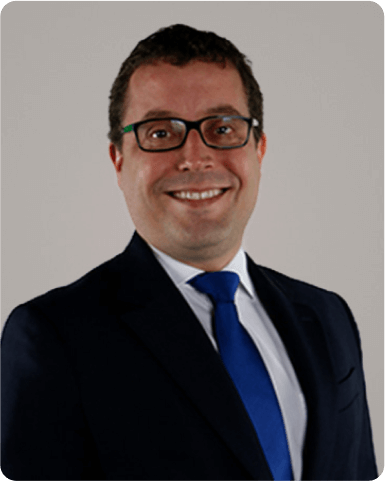
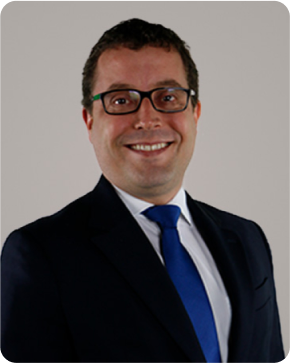
feat: professores

diff --git a/utils/professores.ts b/utils/professores.ts
@@ -2,32 +2,32 @@ import { ProfessoresType } from "@/typings/Professores";
 
 export const InfosProfessor: ProfessoresType[] = [
     {
-        img: "", 
+        img: "/images/professores/alberto.webp", 
         linkCurriculo: "",
         nome: "Alberto Shinji Higa"
     },
     {
-        img: "", 
+        img: "/images/professores/alexandre.webp", 
         linkCurriculo: "Doutor e Mestre em Direito do Estado pela PUC-SP, Professor do Curso de Especialização em Direito Administrativo da PUC-SP, Procurador do Município de São Paulo e Membro efetivo da Comissão de Direito Administrativo da OAB/SP;",
         nome: "Alexandre Levin"
     }, 
     {
-        img: "", 
+        img: "/images/professores/ana-maria.webp", 
         linkCurriculo: "",
         nome: "Ana Maria Pedreira"
     },
     {
-        img: "", 
+        img: "/images/professores/claudia.webp", 
         linkCurriculo: "",
         nome: "Claudia Cristina Barrilari"
     },
     {
-        img: "", 
+        img: "/images/professores/christianne.webp", 
         linkCurriculo: "Doutora e Mestre em Direito pela PUC-SP, Professora de Direito Administrativo da PUC-SP, Assessora de Gabinete na Assessoria Jurídica de Controle Externo do TCM-SP, Ex-Assessora Jurídica na Secretaria Municipal da Saúde de São Paulo e Ex-Procuradora da USP;",
         nome: "Christianne de Carvalho Stroppa"
     }, 
     {
-        img: "", 
+        img: "/images/professores/gilberto.webp", 
         linkCurriculo: "Especialista em Direito Constitucional e Direito Administrativo pela Escola Paulista de Direito; Especialista em Interesses Difusos e Coletivos pela Escola Superior do Ministério Público de São Paulo; Consultor Jurídico na área de Licitações e Contratos Administrativos e Direito Administrativo; Editor, Professor e Diretor Jurídico da SGP – Soluções em Gestão Pública; Coordenador do MBA em Licitações e Contratações da Administração Pública da SGP; Coordenador e coautor do livro “A Boa Gestão Pública e o Novo Direito Administrativo: dos conflitos às melhores soluções práticas”, São Paulo: SGP, 2021; Coautor dos livros: “Temas Atuais de Direito Público – Estudos em Homenagem ao Professor Toshio Mukai”, Coord. Alberto Shinji Higa e Arthur Bezerra de Souza Junior, São Paulo: Thoth, 2019; e “Comentários ao Sistema Legal Brasileiro de Licitações e Contratos Administrativos”, Coord. Jessé Torres Pereira Junior, São Paulo: NDJ, 2016; Autor de diversos artigos jurídicos publicados em revistas especializadas. ",
         nome: "Gilberto Bernardino de Oliveira Filho"
     }, 

diff --git a/components/Professores/index.tsx b/components/Professores/index.tsx
@@ -1,6 +1,7 @@
 import { ProfessoresType } from '@/typings/Professores';
 import { InfosProfessor } from '@/utils/professores';
 import { Dialog, Transition } from '@headlessui/react';
+import Image from 'next/image';
 import React, { Fragment, useState } from 'react'
 import { BsArrowLeftCircle, BsPersonCircle } from 'react-icons/bs';
 import { HiMagnifyingGlass } from 'react-icons/hi2'
@@ -37,15 +38,11 @@ export default function ProfessoresComponent() {
             </div>
             <div className={styles.professoresTodos}> 
                 {InfosProfessor.map((x) => (
-                    <div className={styles.professor} onClick={() => modalState(x)}>
-                        <div role="button">
-
-                        </div>
-                        <p role="button">
-                    <span>
-                      <BsPersonCircle /> Conferir detalhes
-                    </span>
-                  </p>
+                    <div className={styles.professor} >
+                      <Image src={x.img} alt={"Professor(a) - " + x.nome} fill />
+                        <span role="button" onClick={() => modalState(x)}>
+                          <BsPersonCircle /> Conferir detalhes
+                        </span>
                     </div>
                 ))}
             </div>

diff --git a/components/Professores/Professores.module.scss b/components/Professores/Professores.module.scss
@@ -41,23 +41,34 @@
     & > .professoresTodos {
         margin-block: 20px;
         display: grid;
-        grid-template-columns: repeat(3, auto);
+        grid-template-columns: repeat(3, 22%);
         gap: 30px;
+        align-items: center;
+        justify-content: center;
 
         & > .professor {
-            background-color: $dark-blue-fulldark;
+            background-color:white;
             color: white;
             border-radius: 10px;
             padding: 25px;
             display: flex;
             flex-direction: column;
             gap: 30px;
-            height: 330px;
+            height: 290px;
             position: relative;
+            // width: 70%;
+
+            & > img {
+                width: 10%;
+                height: 90%;
+            }
 
 
-            & > div {
-                position: relative;
+            & > span[role="button"] {
+                position: absolute;
+                bottom: 10%;
+                white-space: nowrap;
+                cursor: pointer;
             }
         }
     }
